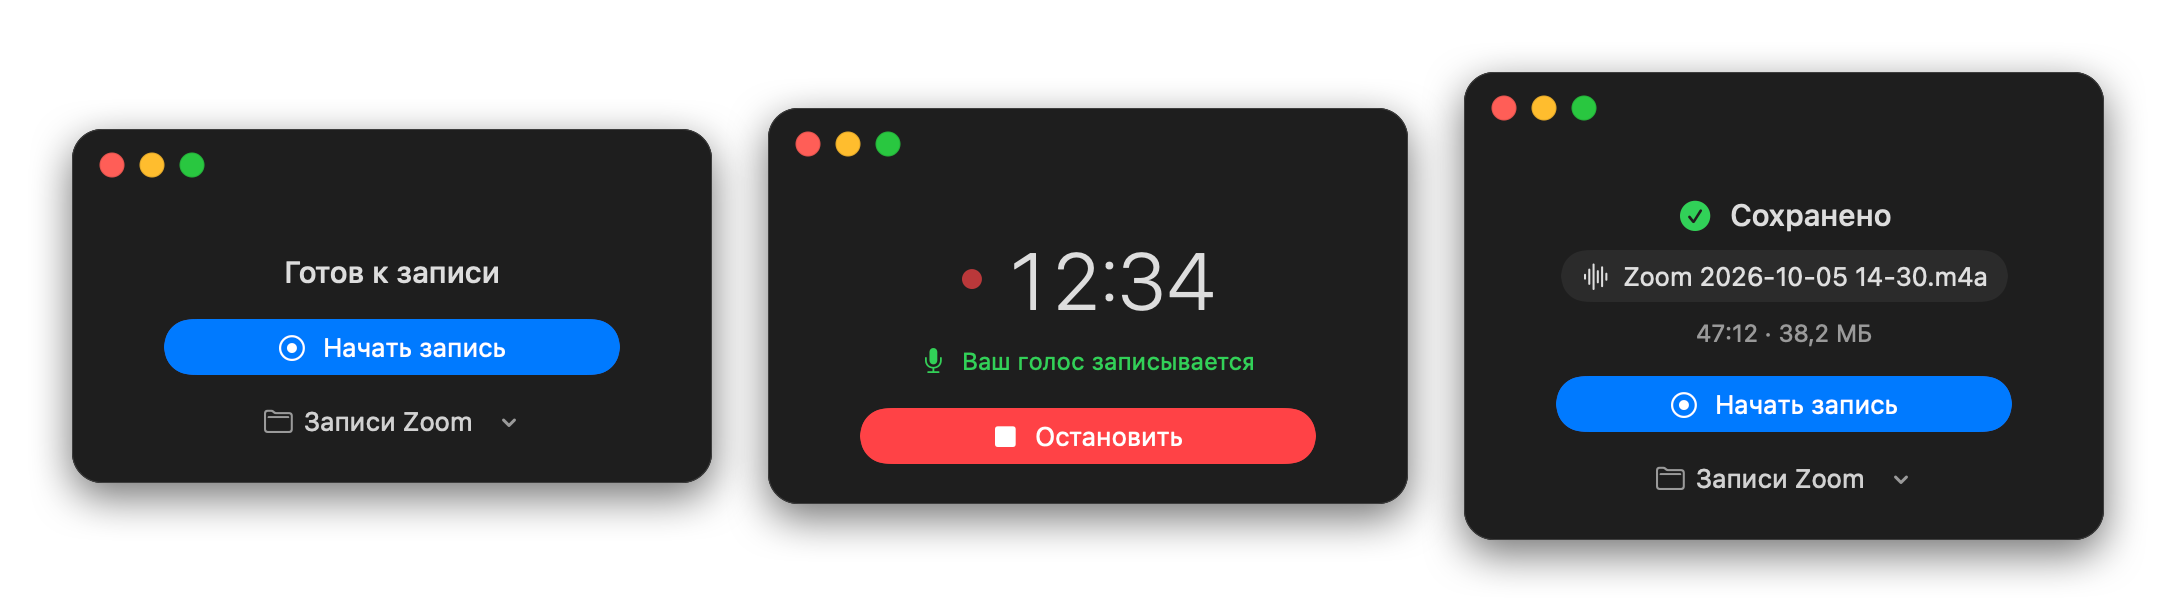
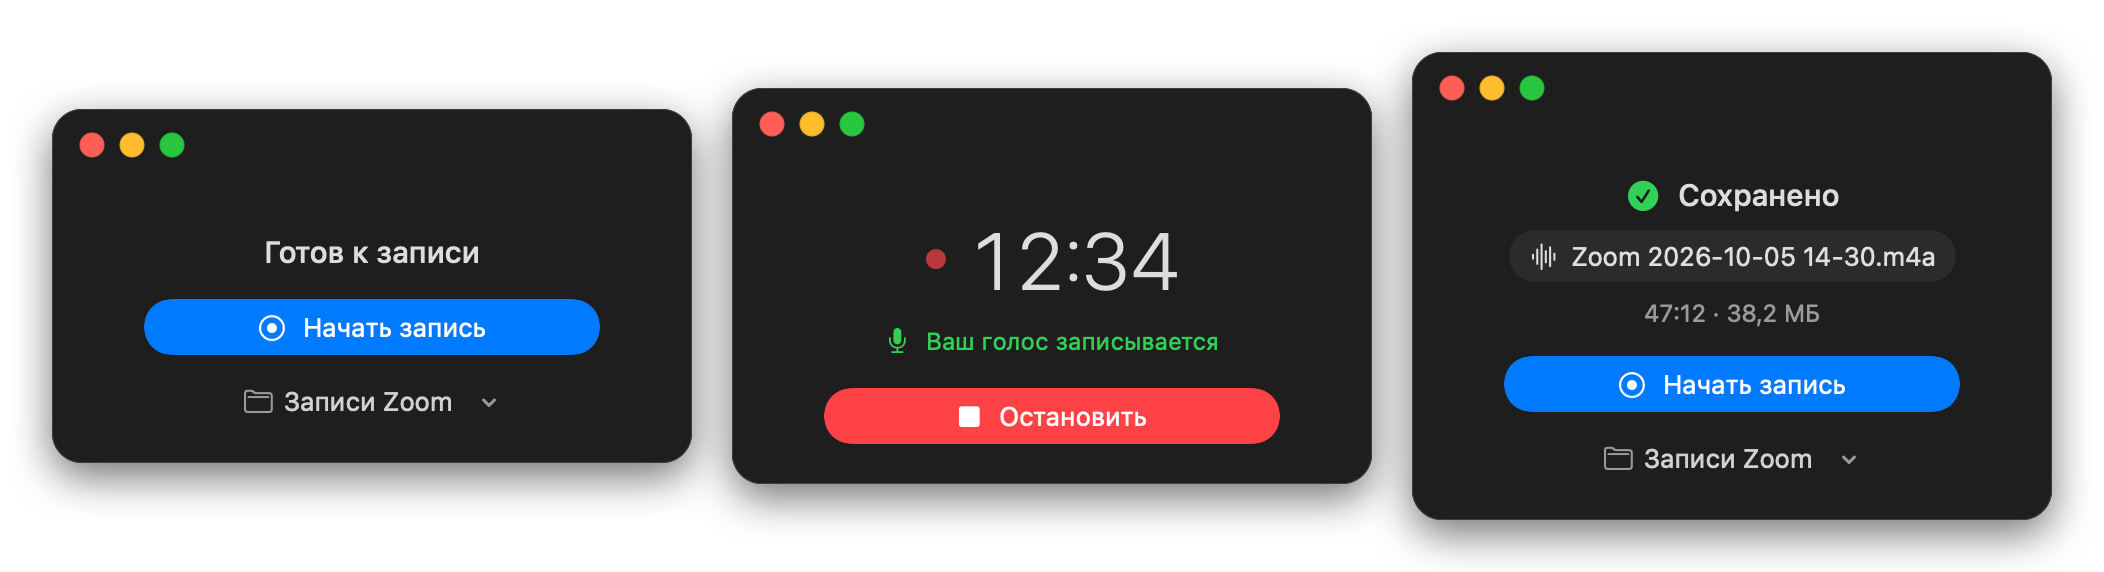
Tighten README hero spacing

diff --git a/README.md b/README.md
@@ -13,7 +13,7 @@
 
 <sub>Бесплатно · macOS 15 и новее · Apple Silicon и Intel</sub>
 
-<br><br>
+<br>
 
 <picture>
   <source media="(prefers-color-scheme: dark)" srcset=".github/assets/hero-dark.png">
